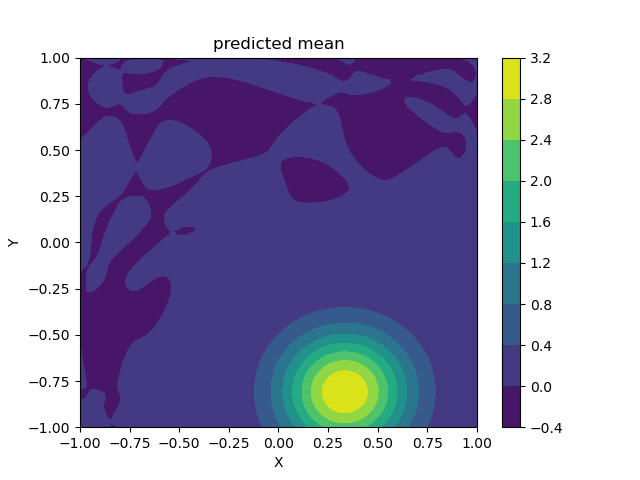
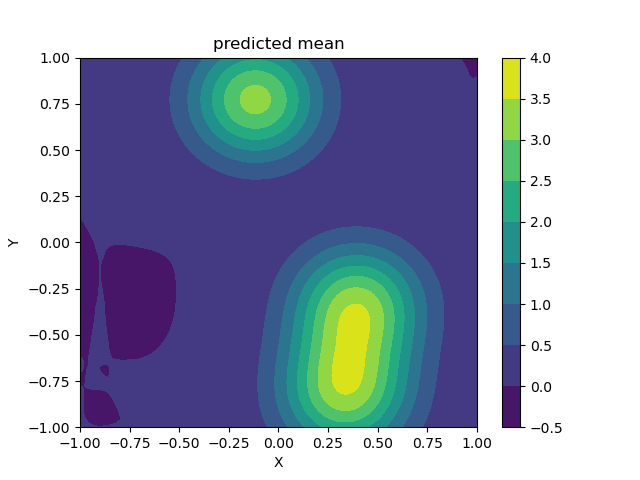
trimodel graphs

diff --git a/finalexecution.py b/finalexecution.py
@@ -54,7 +54,7 @@ def find_nearest_charging_station(robot_position, charging_points):
 
 def executeIPP_py(N=4, resolution=0.1, number_of_iterations=20, show_fig_flag=True, save_fig_flag=False):
     battery_levels = np.full(N,1.0)
-    battery_levels[2:4] = 0.5
+    # battery_levels[2:4] = 0.5
     rng = np.random.default_rng(12345)
     distance_to_centroid_threshold= -0.1
     file_path = ""
@@ -102,12 +102,12 @@ def executeIPP_py(N=4, resolution=0.1, number_of_iterations=20, show_fig_flag=Tr
     plt.axhline(y=battery_threshold, color='r', linestyle='--', label='Battery Threshold')
 
     # Assign charging points to robots
-    robot_charging_points = [recharger1_point, recharger2_point, recharger3_point, recharger4_point, recharger5_point]
+    robot_charging_points = [recharger1_point, recharger2_point, recharger3_point, recharger4_point, recharger5_point, recharger6_point]
 
     # generate 9 Gauusian distribution for ground_truth
     # Using Z_phi here to represent ground_truth (phi(q))
     # Number of Gaussian distributions
-    num_distributions = 1
+    num_distributions = 3 # number of gaussian distributions in each robot's position 3 for trimodel
     # Variances for all distributions
     variances = np.ones(num_distributions) * 0.05  # Adjusted variance for visibility
     # Generate random means for both density functions
@@ -143,7 +143,21 @@ def executeIPP_py(N=4, resolution=0.1, number_of_iterations=20, show_fig_flag=Tr
     #########################################################  Main Code for Balancing Coverage and Informative Path Planning (IPP)
     goal_for_centroid = copy.deepcopy(current_robotspositions)
     sampling_goal = copy.deepcopy(current_robotspositions)
+    min_energy_array = np.zeros(number_of_iterations)
+    max_energy_array = np.zeros(number_of_iterations)
+    mean_energy_array = np.zeros(number_of_iterations)
+
+
     for iteration in range(number_of_iterations):
+        # Calculate minimum, maximum, and mean energy across robots
+        min_energy = np.min(battery_levels)
+        max_energy = np.max(battery_levels)
+        mean_energy = np.mean(battery_levels)
+        
+        # Store the values in arrays
+        min_energy_array[iteration] = min_energy
+        max_energy_array[iteration] = max_energy
+        mean_energy_array[iteration] = mean_energy
         ## Get Robot Positions and Plotting
         positions_array[iteration,:,:] = current_robotspositions[:2,:]
         for recharger_point in recharger_points:
@@ -246,7 +260,7 @@ def executeIPP_py(N=4, resolution=0.1, number_of_iterations=20, show_fig_flag=Tr
             if battery_levels[robot] < battery_threshold:
                 # Move towards charging station gradually
                 if dist_to_cs < charging_threshold:
-                    battery_levels[robot] = min(battery_levels[robot] + charging_rate, 0.80)
+                    battery_levels[robot] = 1.0
                 else:
                     # Calculate the intermediate position between the current position and charging station
                     charging_transition = current_robotspositions[:2, robot] + (nearest_charging_station - current_robotspositions[:2, robot]) * (1 / transition_iterations)
@@ -376,6 +390,16 @@ def executeIPP_py(N=4, resolution=0.1, number_of_iterations=20, show_fig_flag=Tr
             ax_battery.plot(iteration_array, battery_levels_array[:, i], label=f'Robot {i+1}', color=ROBOT_COLOR[i])
         ax_battery.legend()
 
+        fig_battery_mmm = plt.figure()
+        plt.plot(iteration_array, min_energy_array, label='Min Energy', linestyle='-', color='blue')
+        plt.plot(iteration_array, max_energy_array, label='Max Energy', linestyle='--', color='green')
+        plt.plot(iteration_array, mean_energy_array, label='Mean Energy', linestyle=':', color='red')
+        plt.xlabel('Iterations')
+        plt.ylabel('Energy Level')
+        plt.title('Energy Levels Across Iterations')
+        plt.legend()
+        plt.grid(True)
+
         #saveFigs
         if save_fig_flag:
             fig_dis_centroid.savefig(file_path+"distance_to_centroid.png")
@@ -391,6 +415,7 @@ def executeIPP_py(N=4, resolution=0.1, number_of_iterations=20, show_fig_flag=Tr
             fig_rt_val.savefig(file_path+"gamma_coeff.png")
             fig_regret.savefig(file_path+"regret.png")
             fig_battery.savefig('battery_levels_plot.png')
+            fig_battery_mmm.savefig('battery_energy_plots.png')
             
         plt.show()
         plt.pause(20)
